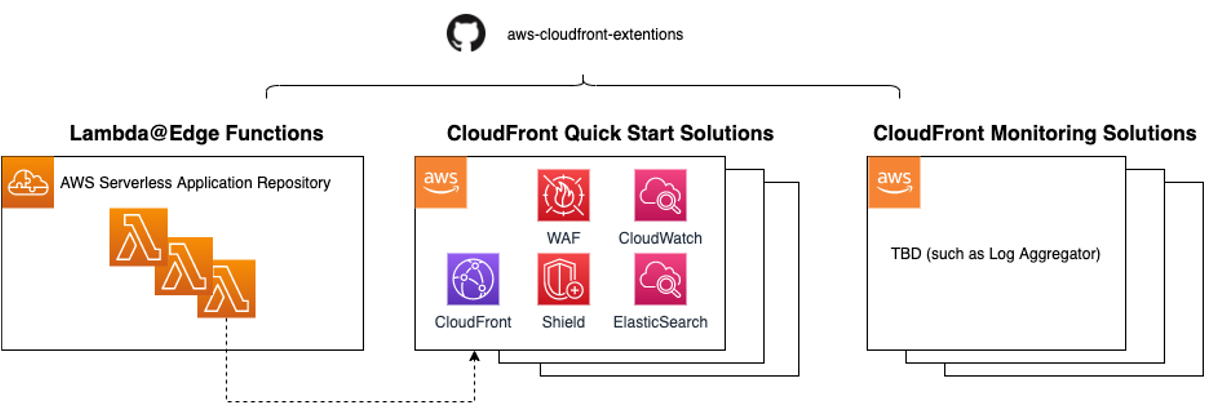
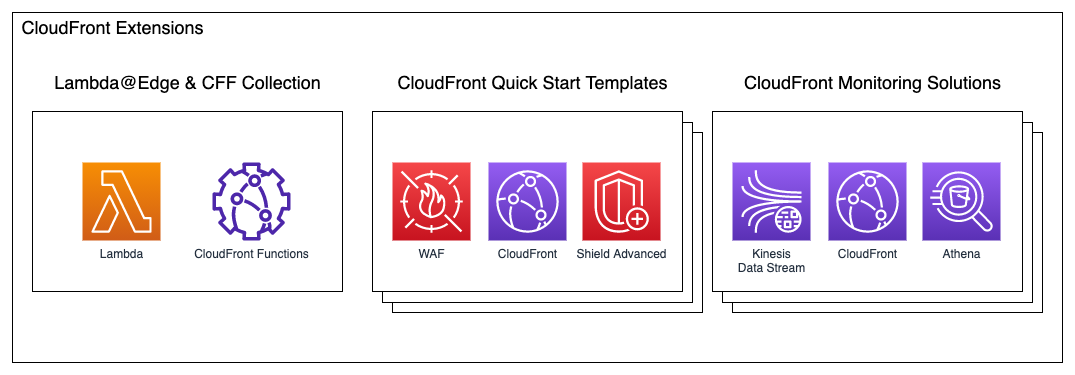
doc: update workshop

diff --git a/docs/_index.en.md b/docs/_index.en.md
@@ -5,67 +5,46 @@ chapter: true
 
 # Amazon CloudFront Extensions 
 
-Amazon CloudFront Extensions is an extension for using CloudFront. CloudFront Extensions includes rich set of featured Lambda@Edge, CloudFront Functions, CDK templates for various user scenarios and an out-of-box monitoring solution. 
+Amazon CloudFront Extensions is an extension for using CloudFront. CloudFront Extensions includes rich set of featured Lambda@Edge, CloudFront Functions, CDK templates for various user scenarios and a monitoring API.
 
 ![What is CloudFrontExt](/images/what-is-cloudfrontext.png)
 
 
 ### One stop to find Lambda@Edge and CloudFront Function for different use cases
 
-CloudFront Extensions offers production level Lambda@Edge and CloudFront Function for common CloudFront use cases, such as redirect, authentication, pre-warm etc.
+CloudFront Extensions offers production level Lambda@Edge and CloudFront Functions for common CloudFront use cases, such as redirect, authentication verification, pre-warm, resizing image.
 
-#### Lambda@Edge
+### CloudFront Security Automations with Amazon WAF and Amazon Shield
 
-|    **Name**   | **Description**    | **Deployment Type** | **Deploy** |
-|------------------|--------------------|----------------|----------------|
-| [Authentication by Cognito](https://github.com/awslabs/aws-cloudfront-extensions/tree/main/edge/nodejs/authentication-with-cognito) | Integrate with Cognito to provide authentication service.([Workshop](./deploy/deploy-auth/readme)) | [SAR](https://serverlessrepo.aws.amazon.com/applications/us-east-1/418289889111/authentication-with-cognito), SAM | [![Deploy](/images/deploy_button.png)](https://serverlessrepo.aws.amazon.com/applications/us-east-1/418289889111/authentication-with-cognito) |
-| [Adding security header](https://github.com/awslabs/aws-cloudfront-extensions/blob/main/edge/nodejs/add-security-headers) | Add security header into response after successful authentication, this function will add 'strict-transport-security' to force browser using HTTPS. | [SAR](https://serverlessrepo.aws.amazon.com/applications/us-east-1/418289889111/add-security-headers), SAM |  [![Deploy](/images/deploy_button.png)](https://serverlessrepo.aws.amazon.com/applications/us-east-1/418289889111/add-security-headers) |
-| [Serving Content Based on Device Type](https://github.com/awslabs/aws-cloudfront-extensions/tree/main/edge/nodejs/serving-based-on-device) | Redirect to the different version of an object based on the type of device that the user is using.([Workshop](./deploy/deploy-device/readme)) | [SAR](https://serverlessrepo.aws.amazon.com/applications/us-east-1/418289889111/serving-based-on-device), SAM | [![Deploy](/images/deploy_button.png)](https://serverlessrepo.aws.amazon.com/applications/us-east-1/418289889111/serving-based-on-device) |
-| [Cross Origin Resource Sharing](https://github.com/awslabs/aws-cloudfront-extensions/tree/main/edge/nodejs/cross-origin-resource-sharing) | Support CORS(Cross Origin Resource Sharing) by Lambda@Edge. | [SAR](https://serverlessrepo.aws.amazon.com/applications/us-east-1/418289889111/cross-origin-resource-sharing), SAM | [![Deploy](/images/deploy_button.png)](https://serverlessrepo.aws.amazon.com/applications/us-east-1/418289889111/cross-origin-resource-sharing) |
-| [Modify response status code](https://github.com/awslabs/aws-cloudfront-extensions/tree/main/edge/nodejs/modify-response-status-code)  | Modify response status code to specific code, such as 200 to 206, based on configured parameter. | [SAR](https://serverlessrepo.aws.amazon.com/applications/us-east-1/418289889111/modify-response-status-code), SAM | [![Deploy](/images/deploy_button.png)](https://serverlessrepo.aws.amazon.com/applications/us-east-1/418289889111/modify-response-status-code) |
-| [Modify response header](https://github.com/awslabs/aws-cloudfront-extensions/tree/main/edge/nodejs/modify-response-header) | Modify response header as per configuration. | [SAR](https://serverlessrepo.aws.amazon.com/applications/us-east-1/418289889111/modify-response-header), SAM, [CDK](https://github.com/pahud/cdk-cloudfront-plus/tree/main/src/demo/modify-response-header) | [![Deploy](/images/deploy_button.png)](https://serverlessrepo.aws.amazon.com/applications/us-east-1/418289889111/modify-response-header) |
-| [Access origin by weight rate](https://github.com/awslabs/aws-cloudfront-extensions/tree/main/edge/nodejs/access-origin-by-weight-rate) | Forward request to multiple origin regarding to pre-configured weight for each origin.| [SAR](https://serverlessrepo.aws.amazon.com/applications/us-east-1/418289889111/access-origin-by-weight-rate), SAM | [![Deploy](/images/deploy_button.png)](https://serverlessrepo.aws.amazon.com/applications/us-east-1/418289889111/access-origin-by-weight-rate) |
-| [Failover to alternative origin](https://github.com/awslabs/aws-cloudfront-extensions/tree/main/edge/nodejs/multiple-origin-IP-retry) | Failover to alternative IP from pre-configured list, return from success IP otherwise retry until last one. | [SAR](https://serverlessrepo.aws.amazon.com/applications/us-east-1/418289889111/multiple-origin-IP-retry), SAM, [CDK](https://github.com/awslabs/aws-cloudfront-extensions/tree/main/edge/nodejs/multiple-origin-IP-retry) | [![Deploy](/images/deploy_button.png)](https://serverlessrepo.aws.amazon.com/applications/us-east-1/418289889111/multiple-origin-IP-retry) |
-| [Support 302 from origin](https://github.com/awslabs/aws-cloudfront-extensions/tree/main/edge/nodejs/http302-from-origin) | Process 302 response from origin, then access the redirected URL and return the response. | [SAR](https://serverlessrepo.aws.amazon.com/applications/us-east-1/418289889111/http302-from-origin), SAM, [CDK](https://github.com/pahud/cdk-cloudfront-plus/issues/12) | [![Deploy](/images/deploy_button.png)](https://serverlessrepo.aws.amazon.com/applications/us-east-1/418289889111/http302-from-origin) |
-| [Pre-warm](https://github.com/awslabs/aws-cloudfront-extensions/tree/main/edge/python/prewarm) | This Lambda will prewarm static content in specific pop. | [SAR](https://serverlessrepo.aws.amazon.com/applications/us-east-1/418289889111/prewarm), SAM | [![Deploy](/images/deploy_button.png)](https://serverlessrepo.aws.amazon.com/applications/us-east-1/418289889111/prewarm) |
-| [Resize picture](https://github.com/awslabs/aws-cloudfront-extensions/tree/main/edge/nodejs/resize-picture) | Resize pictures on the fly according to dimensions passed by the query parameter. | [SAR](https://serverlessrepo.aws.amazon.com/applications/us-east-1/418289889111/resize-picture), SAM | [![Deploy](/images/deploy_button.png)](https://serverlessrepo.aws.amazon.com/applications/us-east-1/418289889111/resize-picture) |
-| [Anti-hotlinking](https://github.com/awslabs/aws-cloudfront-extensions/tree/main/edge/nodejs/anti-hotlinking) | Protect against hotlinking, users need to specify a referer allow list which supports wild card, the request is rejected if the referer is not in the allow list. | [SAR](https://serverlessrepo.aws.amazon.com/applications/us-east-1/418289889111/anti-hotlinking), SAM, [CDK](https://github.com/awslabs/aws-cloudfront-extensions/tree/main/edge/nodejs/anti-hotlinking) | [![Deploy](/images/deploy_button.png)](https://serverlessrepo.aws.amazon.com/applications/us-east-1/418289889111/anti-hotlinking) |
-| [Standardize query string](https://github.com/awslabs/aws-cloudfront-extensions/tree/main/edge/nodejs/normalize-query-string) | Standardize the query string before CloudFront forwards requests to your origin, so that improve the cache hit ratio. | [SAR](https://serverlessrepo.aws.amazon.com/applications/us-east-1/418289889111/normalize-query-string), SAM, [CDK](https://github.com/pahud/cdk-cloudfront-plus/pull/64) | [![Deploy](/images/deploy_button.png)](https://serverlessrepo.aws.amazon.com/applications/us-east-1/418289889111/normalize-query-string) |
-| [OAuth2 Authentication](https://github.com/pahud/cdk-cloudfront-plus/issues/17) | Authentication with OAuth2. | [CDK](https://www.npmjs.com/package/cdk-cloudfront-plus) | - |
-| [Authentication with AliYun](https://github.com/awslabs/aws-cloudfront-extensions/tree/main/edge/nodejs/authentication-with-aliyun-cdn-typeA) | This solution provided by Goclouds Data is designed to achieve ALIYUN CDN authentication. | [SAR](https://serverlessrepo.aws.amazon.com/applications/us-east-1/418289889111/authentication-with-aliyun-cdn-typeA), SAM |  [![Deploy](/images/deploy_button.png)](https://serverlessrepo.aws.amazon.com/applications/us-east-1/418289889111/authentication-with-aliyun-cdn-typeA) |
-| [Default Directory Index for Amazon S3 Origin](https://github.com/pahud/cdk-cloudfront-plus/issues/9) |  re-write the request so that CloudFront requests a default index object (index.html in this case) for any request URI that ends in ‘/’. [Use case](https://aws.amazon.com/tw/blogs/compute/implementing-default-directory-indexes-in-amazon-s3-backed-amazon-cloudfront-origins-using-lambdaedge/) | [CDK](https://www.npmjs.com/package/cdk-cloudfront-plus) | - |
-| [Rewrite host for Custom Origin](https://github.com/awslabs/aws-cloudfront-extensions/tree/main/edge/nodejs/rewrite-url) | Rewrite host for custom origin | [SAR](https://serverlessrepo.aws.amazon.com/applications/us-east-1/418289889111/rewrite-url) |  [![Deploy](/images/deploy_button.png)](https://serverlessrepo.aws.amazon.com/applications/us-east-1/418289889111/rewrite-url) |
-| [Redirect URL by Geolocation](https://github.com/pahud/cdk-cloudfront-plus/issues/11) | Forward request to the nearest PoP as per geolocation. It will return the location to client for 302 forwarding. | [CDK](https://www.npmjs.com/package/cdk-cloudfront-plus) | - |
-| [Convert query string](https://github.com/pahud/cdk-cloudfront-plus/issues/23) | Convert the query string to key & value pairs and add into header. | [CDK](https://www.npmjs.com/package/cdk-cloudfront-plus) | - |
-| [Serverless load balancer](https://github.com/awslabs/aws-cloudfront-extensions/tree/main/edge/python/serverless-load-balancer) | The serverless load balance solution will load balance for your origin via Lambda@Edge which is deployed on CloudFront origin request. | [SAR](https://serverlessrepo.aws.amazon.com/applications/us-east-1/418289889111/serverless-load-balancer), SAM | [![Deploy](/images/deploy_button.png)](https://serverlessrepo.aws.amazon.com/applications/us-east-1/418289889111/serverless-load-balancer) |
-| [Access origin by geolocation](https://github.com/pahud/cdk-cloudfront-plus/issues/41) | Forward request to the nearest PoP as per geolocation. It will access the location from Edge location. | [CDK](https://www.npmjs.com/package/cdk-cloudfront-plus) | - |
-| [Custom Error Page](https://github.com/pahud/cdk-cloudfront-plus/pull/46) | Define a custom error page with a specific status code from the origin response. [Use case](https://aws.amazon.com/blogs/networking-and-content-delivery/customize-403-error-pages-from-amazon-cloudfront-origin-with-lambdaedge/) | [CDK](https://www.npmjs.com/package/cdk-cloudfront-plus) | - |
-| [Global Data Ingestion](https://github.com/pahud/cdk-cloudfront-plus/issues/14) | Pipeline custom log to backend data ingestion service like Amazon Kinesis Firehose. [Use case](https://aws.amazon.com/tw/blogs/networking-and-content-delivery/global-data-ingestion-with-amazon-cloudfront-and-lambdaedge/) | [CDK](https://www.npmjs.com/package/cdk-cloudfront-plus) | - |
-| [Custom Response with New URL](https://github.com/awslabs/aws-cloudfront-extensions/tree/main/edge/nodejs/custom-response-with-replaced-url) | Replace the response content with a new content. For example, replace the url "www.original.com" to "www.new.com" in the response. | [SAR](https://serverlessrepo.aws.amazon.com/applications/us-east-1/418289889111/custom-response-with-replaced-url), SAM | [![Deploy](/images/deploy_button.png)](https://serverlessrepo.aws.amazon.com/applications/us-east-1/418289889111/custom-response-with-replaced-url) |
+CloudFront Extensions provides a template that allows you to use Amazon WAF and Amazon Shield on CloudFront, it will automatically deploy a set of WAF rules and Shield protection groups into your account to secure your web applications against below attacks
 
+  - SQL Injection and XSS: The solution configures two native WAF rules that are designed to protect against common SQL injection or cross-site scripting (XSS) patterns in the URI, query string, or body of a request.
+  - HTTP flood: This component protects against attacks that consist of a large number of requests from a particular IP address, such as a web-layer DDoS attack or a brute-force login attempt.
+  - Bad Bots: This component automatically sets up a honeypot, which is a security mechanism intended to lure and deflect an attempted attack.
+  - Scanners and Probes: This component parses application access logs searching for suspicious behavior, such as an abnormal amount of errors generated by an origin. It then blocks those suspicious source IP addresses for a customer-defined period of time.
+  - IP Reputation Lists: IP Lists Parser Lambda function which checks third-party IP reputation lists hourly for new ranges to block.
+  - Deny list and allow list: This component creates two specific WAF rules that allow you to manually insert IP addresses that you want to block or allow.
 
-#### CloudFront Function
-|    **Name**   | **Description**    | **Deploy** |
-|------------------|--------------------|----------------|
-| [Add Security Headers](https://github.com/awslabs/aws-cloudfront-extensions/tree/main/function/js/add-security-headers) | Add several response headers to enable web browsers security features. | [![Deploy](/images/deploy_button.png)](https://console.aws.amazon.com/cloudformation/home?region=us-east-1#/stacks/new?stackName=add-security-headers&templateURL=https:%2F%2Faws-cloudfront-extensions-cff.s3.amazonaws.com%2Fadd-security-headers.yaml) |
-| [Cross Origin Resource Sharing](https://github.com/awslabs/aws-cloudfront-extensions/tree/main/function/js/cross-origin-resource-sharing) | Support CORS(Cross Origin Resource Sharing) by CloudFront Function. | [![Deploy](/images/deploy_button.png)](https://console.aws.amazon.com/cloudformation/home?region=us-east-1#/stacks/new?stackName=cross-origin-resource-sharing&templateURL=https:%2F%2Faws-cloudfront-extensions-cff.s3.amazonaws.com%2Fcross-origin-resource-sharing.yaml) |
-| [Add Cache Control Headers](https://github.com/awslabs/aws-cloudfront-extensions/tree/main/function/js/add-cache-control-header) | Add a Cache-Control header for the browser so that content can be cached locally in the browser. | [![Deploy](/images/deploy_button.png)](https://console.aws.amazon.com/cloudformation/home?region=us-east-1#/stacks/new?stackName=add-cache-control-header&templateURL=https:%2F%2Faws-cloudfront-extensions-cff.s3.amazonaws.com%2Fadd-cache-control-header.yaml) |
-| [Add Origin Headers](https://github.com/awslabs/aws-cloudfront-extensions/tree/main/function/js/add-origin-header) | Add an Origin header if it is not present in the incoming request. The Origin header is part of [Cross-Origin Resource Sharing](https://developer.mozilla.org/en-US/docs/Web/HTTP/CORS) (CORS), a mechanism using HTTP headers to tell browsers to give a web application running at one origin access to selected resources from a different origin. | [![Deploy](/images/deploy_button.png)](https://console.aws.amazon.com/cloudformation/home?region=us-east-1#/stacks/new?stackName=add-origin-header&templateURL=https:%2F%2Faws-cloudfront-extensions-cff.s3.amazonaws.com%2Fadd-origin-header.yaml) |
-| [Add True Client IP Headers](https://github.com/awslabs/aws-cloudfront-extensions/tree/main/function/js/add-true-client-ip-header) | Add a True-Client-IP header to include the IP address of a client connecting to CloudFront. Without this header, connections from CloudFront to your origin contain the IP address of the CloudFront server making the request to your origin, not the IP address of the client connected to CloudFront. | [![Deploy](/images/deploy_button.png)](https://console.aws.amazon.com/cloudformation/home?region=us-east-1#/stacks/new?stackName=add-true-client-ip-header&templateURL=https:%2F%2Faws-cloudfront-extensions-cff.s3.amazonaws.com%2Fadd-true-client-ip-header.yaml) |
-| [Redirect Based on Country](https://github.com/awslabs/aws-cloudfront-extensions/tree/main/function/js/redirect-based-on-country) | Redirect a user to a country-specific version of a site based on the country of the user. | [![Deploy](/images/deploy_button.png)](https://console.aws.amazon.com/cloudformation/home?region=us-east-1#/stacks/new?stackName=redirect-based-on-country&templateURL=https:%2F%2Faws-cloudfront-extensions-cff.s3.amazonaws.com%2Fredirect-based-on-country.yaml) |
-| [Default Dir Index](https://github.com/awslabs/aws-cloudfront-extensions/tree/main/function/js/default-dir-index) | Append index.html to the end of URLs that don't include a filename or extension. | [![Deploy](/images/deploy_button.png)](https://console.aws.amazon.com/cloudformation/home?region=us-east-1#/stacks/new?stackName=default-dir-index&templateURL=https:%2F%2Faws-cloudfront-extensions-cff.s3.amazonaws.com%2Fdefault-dir-index.yaml) |
-| [Verify Json Web Token](https://github.com/awslabs/aws-cloudfront-extensions/tree/main/function/js/verify-jwt) | Validate a JSON Web Token (JWT) in the query string of the incoming request. | [![Deploy](/images/deploy_button.png)](https://console.aws.amazon.com/cloudformation/home?region=us-east-1#/stacks/new?stackName=verify-jwt&templateURL=https:%2F%2Faws-cloudfront-extensions-cff.s3.amazonaws.com%2Fverify-jwt.yaml) |
-| [Verify Token in URL](https://github.com/awslabs/aws-cloudfront-extensions/tree/main/function/js/verify-jwt) | Validate the token in URL according to timestamp, path etc. | [![Deploy](/images/deploy_button.png)](https://console.aws.amazon.com/cloudformation/home?region=us-east-1#/stacks/new?stackName=verify-jwt-uri&templateURL=https://aws-cloudfront-extensions-cff.s3.amazonaws.com/verify-jwt-uri.yaml) |
-| [Customize Request Host](https://github.com/awslabs/aws-cloudfront-extensions/tree/main/function/js/custom-host) | Replaces host with the value in header awscustomhost. | [![Deploy](/images/deploy_button.png)](https://console.aws.amazon.com/cloudformation/home?region=us-east-1#/stacks/new?stackName=custom-host&templateURL=https:%2F%2Faws-cloudfront-extensions-cff.s3.amazonaws.com%2Fcustom-host.yaml) |
+### Monitoring API by analyzing CloudFront real-time logs
+
+CloudFront Extensions provides a monitoring API, it obtains metrics such as cache hit rate and download rate by analyzing CloudFront real-time logs, and outputs them through Restful API.
+
+This solution can meet flexible customization requirements, and customize indicator logic from real-time logs according to your specific requirements, which can be implemented only through convenient SQL statements in Athena. The following 10 reference metrics are provided in this example:
+
+- request: the number of requests from the client to CloudFront
+- requestOrigin: the number of requests back to the origin
+- statusCode: the status code from the client to CloudFront
+- statusCodeOrigin: the status code of the back-to-origin
+- bandwidth: the bandwidth from the client to CloudFront
+- bandwidthOrigin: bandwidth back to origin
+- chr (cache hit rate): cache hit rate calculated by the number of requests
+- chrBandWith: cache hit ratio calculated by bandwidth
+- downloadSpeed: download speed from client to CloudFront
+- downloadSpeedOrigin: The download speed of the back-to-origin
+
+The above reference indicators effectively supplement the current CloudWatch monitoring indicators for CloudFront, which can help you understand the operation of CloudFront from multiple dimensions. For the default built-in monitoring metrics of CloudFront, you can refer to [Monitoring CloudFront with Amazon CloudWatch](https://docs.aws.amazon.com/zh_cn/AmazonCloudFront/latest/DeveloperGuide/monitoring-using-cloudwatch.html).
 
 
-### One-Click to deploy commonly used CloudFront solutions
 
-CloudFront Extensions offers common solutions for using CloudFront, such as Shield&WAF Deployment for CloudFront. The solutions are provided in pre-baked CloudFormation/CDK templates. Customers can have solution launched into their own AWS consoles with a few clicks.
-
-### Out-of-box experience when integrating with external monitoring system
-
-The fact that metrics and events are retrieved from different AWS services (for example, events are from Evert Bridge, access logs are from s3, etc.), make it a big challenge for improvement of monitor experience when using CloudFront. Customers have wanted to a universal place to handle those logs/events with generic monitoring capability. CloudFront Extensions has provided out-of-box monitoring solution to enhance the overall observability and simplify the integration of CloudFront and customers’ existing monitoring system. [More details](https://github.com/awslabs/aws-cloudfront-extensions/tree/main/templates/aws-cloudfront-monitoring)
-
-[![Deploy](/images/deploy_button.png)](https://console.aws.amazon.com/cloudformation/home?region=us-east-1#/stacks/new?stackName=cloudfront-monitoring&templateURL=https://aws-gcr-solutions.s3.amazonaws.com/aws-cloudfront-extensions/v2.0.0/CloudFrontMonitoringStack.template)
-
+### Implementation Guide
+Please refer to [implementation guide](https://awslabs.github.io/aws-cloudfront-extensions/) for more details 

diff --git a/docs/_index.cn.md b/docs/_index.cn.md
@@ -5,56 +5,51 @@ chapter: true
 
 # Amazon CloudFront Extensions 
 
-Amazon CloudFront Extensions包含覆盖常用用户场景的Lambda@Edge、CloudFront Functions、CDK模版和监控工具，方便用户一站式获取CloudFront拓展功能。本方案部署操作简单，用户可点击下方表格中的Deploy按钮进行部署。
+Amazon CloudFront Extensions是CloudFront的拓展功能，它包含三个模块：Lambda@Edge和CloudFront Functions合集、基于Amazon WAF与Amazon Shield的CloudFront安全自动化和监控API。本方案帮助您更方便的使用CloudFront。
 
 ![What is CloudFrontExt](/images/what-is-cloudfrontext.png)
 
-CloudFront Extensions包含三个部分
-- 覆盖如下用户场景的Lambda@Edge和CloudFront Function，例如鉴权、预热、根据设备类型跳转、图片缩放
-- CDK模块，例如WAF&Shield自动部署模版，用户通过部署此模版可为CloudFront实现DDos、爬虫、XSS、SQL注入等的防御功能
-- 监控工具，通过分析CloudFront实时日志获取缓存命中率、下载速率等指标，并通过Restful API输出 [![部署](/images/deploy_button.png)](https://console.aws.amazon.com/cloudformation/home?region=us-east-1#/stacks/new?stackName=cloudfront-monitoring&templateURL=https://aws-gcr-solutions.s3.amazonaws.com/aws-cloudfront-extensions/v2.0.0/CloudFrontMonitoringStack.template)
-
-#### Lambda@Edge
-
-|    **Name**   | **Description**    | **Deployment Type** | **Deploy** |
-|------------------|--------------------|----------------|----------------|
-| [Authentication by Cognito](https://github.com/awslabs/aws-cloudfront-extensions/tree/main/edge/nodejs/authentication-with-cognito) | Cognito是亚马逊的鉴权服务，当用户通过Cognito进行鉴权时，本Lambda可验证Cognito返回的token是否合法([Workshop](./deploy/deploy-auth/readme)) | [SAR](https://serverlessrepo.aws.amazon.com/applications/us-east-1/418289889111/authentication-with-cognito), SAM | [![部署](/images/deploy_button.png)](https://serverlessrepo.aws.amazon.com/applications/us-east-1/418289889111/authentication-with-cognito) |
-| [Adding security header](https://github.com/awslabs/aws-cloudfront-extensions/blob/main/edge/nodejs/add-security-headers) | 在响应中增加安全标头，例如通过添加HSTS'strict-transport-security'强制浏览器使用HTTPS，添加'x-frame-options'预防点击劫持 | [SAR](https://serverlessrepo.aws.amazon.com/applications/us-east-1/418289889111/add-security-headers), SAM |  [![部署](/images/deploy_button.png)](https://serverlessrepo.aws.amazon.com/applications/us-east-1/418289889111/add-security-headers) |
-| [Serving Content Based on Device Type](https://github.com/awslabs/aws-cloudfront-extensions/tree/main/edge/nodejs/serving-based-on-device) | 根据设备类型跳转到相应链接 ([Workshop](./deploy/deploy-device/readme))  | [SAR](https://serverlessrepo.aws.amazon.com/applications/us-east-1/418289889111/serving-based-on-device), SAM | [![部署](/images/deploy_button.png)](https://serverlessrepo.aws.amazon.com/applications/us-east-1/418289889111/serving-based-on-device) |
-| [Cross Origin Resource Sharing](https://github.com/awslabs/aws-cloudfront-extensions/tree/main/edge/nodejs/cross-origin-resource-sharing) | 在响应中添加CORS(Cross Origin Resource Sharing)标头，例如'access-control-allow-origin'、'access-control-allow-headers' | [SAR](https://serverlessrepo.aws.amazon.com/applications/us-east-1/418289889111/cross-origin-resource-sharing), SAM | [![部署](/images/deploy_button.png)](https://serverlessrepo.aws.amazon.com/applications/us-east-1/418289889111/cross-origin-resource-sharing) |
-| [Modify response status code](https://github.com/awslabs/aws-cloudfront-extensions/tree/main/edge/nodejs/modify-response-status-code)  | 修改响应的状态码，例如将状态码从500修改为200 | [SAR](https://serverlessrepo.aws.amazon.com/applications/us-east-1/418289889111/modify-response-status-code), SAM | [![部署](/images/deploy_button.png)](https://serverlessrepo.aws.amazon.com/applications/us-east-1/418289889111/modify-response-status-code) |
-| [Modify response header](https://github.com/awslabs/aws-cloudfront-extensions/tree/main/edge/nodejs/modify-response-header) | 修改响应的标头 | [SAR](https://serverlessrepo.aws.amazon.com/applications/us-east-1/418289889111/modify-response-header), SAM, [CDK](https://github.com/pahud/cdk-cloudfront-plus/tree/main/src/demo/modify-response-header) | [![部署](/images/deploy_button.png)](https://serverlessrepo.aws.amazon.com/applications/us-east-1/418289889111/modify-response-header) |
-| [Access origin by weight rate](https://github.com/awslabs/aws-cloudfront-extensions/tree/main/edge/nodejs/access-origin-by-weight-rate) | 根据提供的权重访问源站服务器，例如有两个源站服务器，权重分别是1和2，则会按照此权重比例进行回源 | [SAR](https://serverlessrepo.aws.amazon.com/applications/us-east-1/418289889111/access-origin-by-weight-rate), SAM | [![部署](/images/deploy_button.png)](https://serverlessrepo.aws.amazon.com/applications/us-east-1/418289889111/access-origin-by-weight-rate) |
-| [Failover to alternative origin](https://github.com/awslabs/aws-cloudfront-extensions/tree/main/edge/nodejs/multiple-origin-IP-retry) | 用户可提供一个源站服务器列表，当列表中的第一个源站服务器不可用时，自动切换到下一个，直到找到可用源站并发起请求 | [SAR](https://serverlessrepo.aws.amazon.com/applications/us-east-1/418289889111/multiple-origin-IP-retry), SAM, [CDK](https://github.com/awslabs/aws-cloudfront-extensions/tree/main/edge/nodejs/multiple-origin-IP-retry) | [![部署](/images/deploy_button.png)](https://serverlessrepo.aws.amazon.com/applications/us-east-1/418289889111/multiple-origin-IP-retry) |
-| [Support 302 from origin](https://github.com/awslabs/aws-cloudfront-extensions/tree/main/edge/nodejs/http302-from-origin) | 当收到302状态码时，直接请求相应的源站，而不需要返回给客户端进行302跳转 | [SAR](https://serverlessrepo.aws.amazon.com/applications/us-east-1/418289889111/http302-from-origin), SAM, [CDK](https://github.com/pahud/cdk-cloudfront-plus/issues/12) | [![部署](/images/deploy_button.png)](https://serverlessrepo.aws.amazon.com/applications/us-east-1/418289889111/http302-from-origin) |
-| [Pre-warm](https://github.com/awslabs/aws-cloudfront-extensions/tree/main/edge/python/prewarm) | 用户可指定区域进行预热，例如将100个url在美国东部进行预热 | [SAR](https://serverlessrepo.aws.amazon.com/applications/us-east-1/418289889111/prewarm), SAM | [![部署](/images/deploy_button.png)](https://serverlessrepo.aws.amazon.com/applications/us-east-1/418289889111/prewarm) |
-| [Resize picture](https://github.com/awslabs/aws-cloudfront-extensions/tree/main/edge/nodejs/resize-picture) | 根据提供的宽和高缩放图片，并将缩放后的图片保存到S3，提高下次相同请求的效率 | [SAR](https://serverlessrepo.aws.amazon.com/applications/us-east-1/418289889111/resize-picture), SAM | [![部署](/images/deploy_button.png)](https://serverlessrepo.aws.amazon.com/applications/us-east-1/418289889111/resize-picture) |
-| [Anti-hotlinking](https://github.com/awslabs/aws-cloudfront-extensions/tree/main/edge/nodejs/anti-hotlinking) | 只允许referer白名单中的请求访问资源，从而达到防盗链的目的。目前白名单支持'*'、'?'等通配符。例如只允许referer是www.example.com的请求访问网站的图片 | [SAR](https://serverlessrepo.aws.amazon.com/applications/us-east-1/418289889111/anti-hotlinking), SAM, [CDK](https://github.com/awslabs/aws-cloudfront-extensions/tree/main/edge/nodejs/anti-hotlinking) | [![部署](/images/deploy_button.png)](https://serverlessrepo.aws.amazon.com/applications/us-east-1/418289889111/anti-hotlinking) |
-| [Standardize query string](https://github.com/awslabs/aws-cloudfront-extensions/tree/main/edge/nodejs/normalize-query-string) | 标准化query string从而CHR(提高缓存命中率)，此Lambda会将query string转为小写字母并按照升序排列。例如原url是www.example.com/index.html?B=1&a=2，标准化后会变为www.example.com/index.html?a=2&b=1，详情可参考[链接](https://docs.aws.amazon.com/AmazonCloudFront/latest/DeveloperGuide/cache-hit-ratio.html#cache-hit-ratio-query-string-parameters) | [SAR](https://serverlessrepo.aws.amazon.com/applications/us-east-1/418289889111/normalize-query-string), SAM, [CDK](https://github.com/pahud/cdk-cloudfront-plus/pull/64) | [![部署](/images/deploy_button.png)](https://serverlessrepo.aws.amazon.com/applications/us-east-1/418289889111/normalize-query-string) |
-| [OAuth2 Authentication](https://github.com/pahud/cdk-cloudfront-plus/issues/17) | 通过OAuth2进行鉴权 | [CDK](https://www.npmjs.com/package/cdk-cloudfront-plus) | - |
-| [Authentication with AliYun](https://github.com/awslabs/aws-cloudfront-extensions/tree/main/edge/nodejs/authentication-with-aliyun-cdn-typeA) | 由Goclouds提供，实现基于阿里云的鉴权 | [SAR](https://serverlessrepo.aws.amazon.com/applications/us-east-1/418289889111/authentication-with-aliyun-cdn-typeA), SAM |  [![部署](/images/deploy_button.png)](https://serverlessrepo.aws.amazon.com/applications/us-east-1/418289889111/authentication-with-aliyun-cdn-typeA) |
-| [Default Directory Index for Amazon S3 Origin](https://github.com/pahud/cdk-cloudfront-plus/issues/9) |  为CloudFront的链接增加默认的结尾，例如为所有以'/'结尾的url增加example.html[Use case](https://aws.amazon.com/tw/blogs/compute/implementing-default-directory-indexes-in-amazon-s3-backed-amazon-cloudfront-origins-using-lambdaedge/) | [CDK](https://www.npmjs.com/package/cdk-cloudfront-plus) | - |
-| [Rewrite host for Custom Origin](https://github.com/awslabs/aws-cloudfront-extensions/tree/main/edge/nodejs/rewrite-url) | 当CloudFront的源站是自定义源站时，此Lambda可以重写请求中的host字段，从而实现重定向到其他源站的功能 | [SAR](https://serverlessrepo.aws.amazon.com/applications/us-east-1/418289889111/rewrite-url) |  [![部署](/images/deploy_button.png)](https://serverlessrepo.aws.amazon.com/applications/us-east-1/418289889111/rewrite-url) |
-| [Redirect URL by Geolocation](https://github.com/pahud/cdk-cloudfront-plus/issues/11) | 根据地理位置，请求相应的源站服务器，此Lambda会返回302到客户端，然后由客户端再次发起请求。详情请参考[链接](https://aws.amazon.com/tw/blogs/networking-and-content-delivery/dynamically-route-viewer-requests-to-any-origin-using-lambdaedge/) | [CDK](https://www.npmjs.com/package/cdk-cloudfront-plus) | - |
-| [Convert query string](https://github.com/pahud/cdk-cloudfront-plus/issues/23) | 将query string中的字段添加到header中，可用于将长url转成短url | [CDK](https://www.npmjs.com/package/cdk-cloudfront-plus) | - |
-| [Serverless load balancer](https://github.com/awslabs/aws-cloudfront-extensions/tree/main/edge/python/serverless-load-balancer) | 通过Lambda@Edge实现负载均衡功能，负载会在Dynamodb表格中记录 | [SAR](https://serverlessrepo.aws.amazon.com/applications/us-east-1/418289889111/serverless-load-balancer), SAM | [![部署](/images/deploy_button.png)](https://serverlessrepo.aws.amazon.com/applications/us-east-1/418289889111/serverless-load-balancer) |
-| [Access origin by geolocation](https://github.com/pahud/cdk-cloudfront-plus/issues/41) | 根据地理位置，直接请求相应的源站服务器，不需要返回客户端进行302跳转 | [CDK](https://www.npmjs.com/package/cdk-cloudfront-plus) | - |
-| [Custom Error Page](https://github.com/pahud/cdk-cloudfront-plus/pull/46) | 自定义错误页面和响应状态码[Use case](https://aws.amazon.com/blogs/networking-and-content-delivery/customize-403-error-pages-from-amazon-cloudfront-origin-with-lambdaedge/) | [CDK](https://www.npmjs.com/package/cdk-cloudfront-plus) | - |
-| [Global Data Ingestion](https://github.com/pahud/cdk-cloudfront-plus/issues/14) | 将日志输出到Amazon Kinesis Firehose[Use case](https://aws.amazon.com/tw/blogs/networking-and-content-delivery/global-data-ingestion-with-amazon-cloudfront-and-lambdaedge/) | [CDK](https://www.npmjs.com/package/cdk-cloudfront-plus) | - |
-| [Custom Response with New URL](https://github.com/awslabs/aws-cloudfront-extensions/tree/main/edge/nodejs/custom-response-with-replaced-url) | 将响应中的body内容替换为自定义内容。例如响应返回的是个html，此Lambda可以将html中的所有'www.original.com'内容替换'www.new.com'，用户可通过此Lambda实现只维护一个S3桶，即可让两个不同的域名进行访问 | [SAR](https://serverlessrepo.aws.amazon.com/applications/us-east-1/418289889111/custom-response-with-replaced-url), SAM | [![部署](/images/deploy_button.png)](https://serverlessrepo.aws.amazon.com/applications/us-east-1/418289889111/custom-response-with-replaced-url) |
 
 
-#### CloudFront Function
-|    **Name**   | **Description**    | **Deploy** |
-|------------------|--------------------|----------------|
-| [Add Security Headers](https://github.com/awslabs/aws-cloudfront-extensions/tree/main/function/js/add-security-headers) | 在响应中增加安全标头，例如通过添加HSTS'strict-transport-security'强制浏览器使用HTTPS，添加'x-frame-options'预防点击劫持 | [![部署](/images/deploy_button.png)](https://console.aws.amazon.com/cloudformation/home?region=us-east-1#/stacks/new?stackName=add-security-headers&templateURL=https:%2F%2Faws-cloudfront-extensions-cff.s3.amazonaws.com%2Fadd-security-headers.yaml) |
-| [Cross Origin Resource Sharing](https://github.com/awslabs/aws-cloudfront-extensions/tree/main/function/js/cross-origin-resource-sharing) | 在响应中添加CORS(Cross Origin Resource Sharing)标头，例如'access-control-allow-origin'、'access-control-allow-headers'  | [![部署](/images/deploy_button.png)](https://console.aws.amazon.com/cloudformation/home?region=us-east-1#/stacks/new?stackName=cross-origin-resource-sharing&templateURL=https:%2F%2Faws-cloudfront-extensions-cff.s3.amazonaws.com%2Fcross-origin-resource-sharing.yaml) |
-| [Add Cache Control Headers](https://github.com/awslabs/aws-cloudfront-extensions/tree/main/function/js/add-cache-control-header) | 添加Cache-Control标头，从而允许浏览器本地缓存 | [![部署](/images/deploy_button.png)](https://console.aws.amazon.com/cloudformation/home?region=us-east-1#/stacks/new?stackName=add-cache-control-header&templateURL=https:%2F%2Faws-cloudfront-extensions-cff.s3.amazonaws.com%2Fadd-cache-control-header.yaml) |
-| [Add Origin Headers](https://github.com/awslabs/aws-cloudfront-extensions/tree/main/function/js/add-origin-header) | 添加Origin标头 | [![部署](/images/deploy_button.png)](https://console.aws.amazon.com/cloudformation/home?region=us-east-1#/stacks/new?stackName=add-origin-header&templateURL=https:%2F%2Faws-cloudfront-extensions-cff.s3.amazonaws.com%2Fadd-origin-header.yaml) |
-| [Add True Client IP Headers](https://github.com/awslabs/aws-cloudfront-extensions/tree/main/function/js/add-true-client-ip-header) | 添加True-Client-IP标头，此标头是真正最终连接CloudFront的客户端的IP。如果没有此标头，由CloudFront到源站服务器的连接（即源请求Origin request）只会包含CloudFront服务器的IP地址，而不是用户的客户端的IP地址 | [![部署](/images/deploy_button.png)](https://console.aws.amazon.com/cloudformation/home?region=us-east-1#/stacks/new?stackName=add-true-client-ip-header&templateURL=https:%2F%2Faws-cloudfront-extensions-cff.s3.amazonaws.com%2Fadd-true-client-ip-header.yaml) |
-| [Redirect Based on Country](https://github.com/awslabs/aws-cloudfront-extensions/tree/main/function/js/redirect-based-on-country) | 根据用户所在地区返回相应的内容 | [![部署](/images/deploy_button.png)](https://console.aws.amazon.com/cloudformation/home?region=us-east-1#/stacks/new?stackName=redirect-based-on-country&templateURL=https:%2F%2Faws-cloudfront-extensions-cff.s3.amazonaws.com%2Fredirect-based-on-country.yaml) |
-| [Default Dir Index](https://github.com/awslabs/aws-cloudfront-extensions/tree/main/function/js/default-dir-index) | 为CloudFront的链接增加默认的结尾，例如为所有以'/'结尾的url增加index.html| [![部署](/images/deploy_button.png)](https://console.aws.amazon.com/cloudformation/home?region=us-east-1#/stacks/new?stackName=default-dir-index&templateURL=https:%2F%2Faws-cloudfront-extensions-cff.s3.amazonaws.com%2Fdefault-dir-index.yaml) |
-| [Verify Json Web Token](https://github.com/awslabs/aws-cloudfront-extensions/tree/main/function/js/verify-jwt) | 验证query string中的JSON Web Token (JWT)，一般用于鉴权场景 | [![部署](/images/deploy_button.png)](https://console.aws.amazon.com/cloudformation/home?region=us-east-1#/stacks/new?stackName=verify-jwt&templateURL=https:%2F%2Faws-cloudfront-extensions-cff.s3.amazonaws.com%2Fverify-jwt.yaml) |
-| [Verify Token in URL](https://github.com/awslabs/aws-cloudfront-extensions/tree/main/function/js/verify-jwt) | 根据时间戳、路径等验证URL中的Token是否有效，一般用于鉴权场景 | [![部署](/images/deploy_button.png)](https://console.aws.amazon.com/cloudformation/home?region=us-east-1#/stacks/new?stackName=verify-jwt-uri&templateURL=https://aws-cloudfront-extensions-cff.s3.amazonaws.com/verify-jwt-uri.yaml) |
-| [Customize Request Host](https://github.com/awslabs/aws-cloudfront-extensions/tree/main/function/js/custom-host) | 将host替换为自定义的标头的内容，例如用户可自定义一个标头awscustomhost，最终host会被替换为此标头的内容 | [![部署](/images/deploy_button.png)](https://console.aws.amazon.com/cloudformation/home?region=us-east-1#/stacks/new?stackName=custom-host&templateURL=https:%2F%2Faws-cloudfront-extensions-cff.s3.amazonaws.com%2Fcustom-host.yaml) |
+### Lambda@Edge & CloudFront Functions合集
+本模块包含了一系列Lambda@Edge和CloudFront Functions，覆盖了如鉴权验证、预热、根据设备类型跳转和图片缩放等常用的用户场景。
+
+
+### 基于Amazon WAF与Amazon Shield的CloudFront安全自动化
+
+本模块提供了一个在Amazon CloudFront上快速使用Amazon WAF和Amazon Shield Advanced的模板，它可以自动向您的账号中部署一套WAF规则和Shield保护组，从而为您的CloudFront提供如下保护：
+
+- SQL注入和XSS：该解决方案配置了两个本机WAF规则，旨在防止URI、查询字符串或请求正文中出现常见的SQL注入或跨站点脚本（XSS）模式。
+
+- HTTP泛洪：该组件可防止来自特定IP地址的大量请求构成的攻击，例如web层DDoS攻击或暴力登录尝试。
+
+- 日志扫描器：该组件分析应用程序访问日志，搜索可疑行为，例如状态码为500。然后，它会在客户定义的一段时间内屏蔽这些可疑的源IP地址。
+
+- IP信誉列表：定期获取第三方提供的IP信誉列表，防止信誉差的IP访问您的网站。
+
+- 爬虫：设置一个蜜罐链接，您可将其添加到网页中，通过将其设置为隐藏，从而保证用户无法看到此链接，那么此链接被点击时则是由爬虫触发的，从而识别出爬虫并进行防御。
+
+- IP黑名单和白名单：该组件创建两个特定的WAF规则，允许您手动插入要阻止或允许的IP地址。
+
+### 监控API
+本模块通过分析CloudFront实时日志获取缓存命中率、下载速率等指标，并通过Restful API输出。
+
+监控API可以满足灵活的定制化需求，根据您的特定需求从实时日志中自定义指标逻辑，只需要在Athena中通过方便的SQL语句就可以实现。本示例中提供了以下10个参考指标：
+
+- request: 从客户端到CloudFront的请求数量
+- requestOrigin: 回源的请求数量
+- statusCode: 从客户端到CloudFront的状态码
+- statusCodeOrigin: 回源的状态码
+- bandwidth: 从客户端到CloudFront的带宽
+- bandwidthOrigin: 回源的带宽
+- chr (cache hit rate): 通过请求数量计算的缓存命中率
+- chrBandWith: 通过带宽计算的缓存命中率
+- downloadSpeed: 从客户端到CloudFront的下载速率
+- downloadSpeedOrigin: 回源的下载速率
+
+上述参考指标有效地补充了目前CloudWatch对CloudFront的监控指标，可以帮助您从多个维度了解CloudFront的运行情况。有关CloudFront默认内置的监控指标，可以参考[使用Amazon CloudWatch监控CloudFront](https://docs.aws.amazon.com/zh_cn/AmazonCloudFront/latest/DeveloperGuide/monitoring-using-cloudwatch.html)。
+
+
+### 实施指南
+详情请参考[实施指南](https://awslabs.github.io/aws-cloudfront-extensions/)
 
